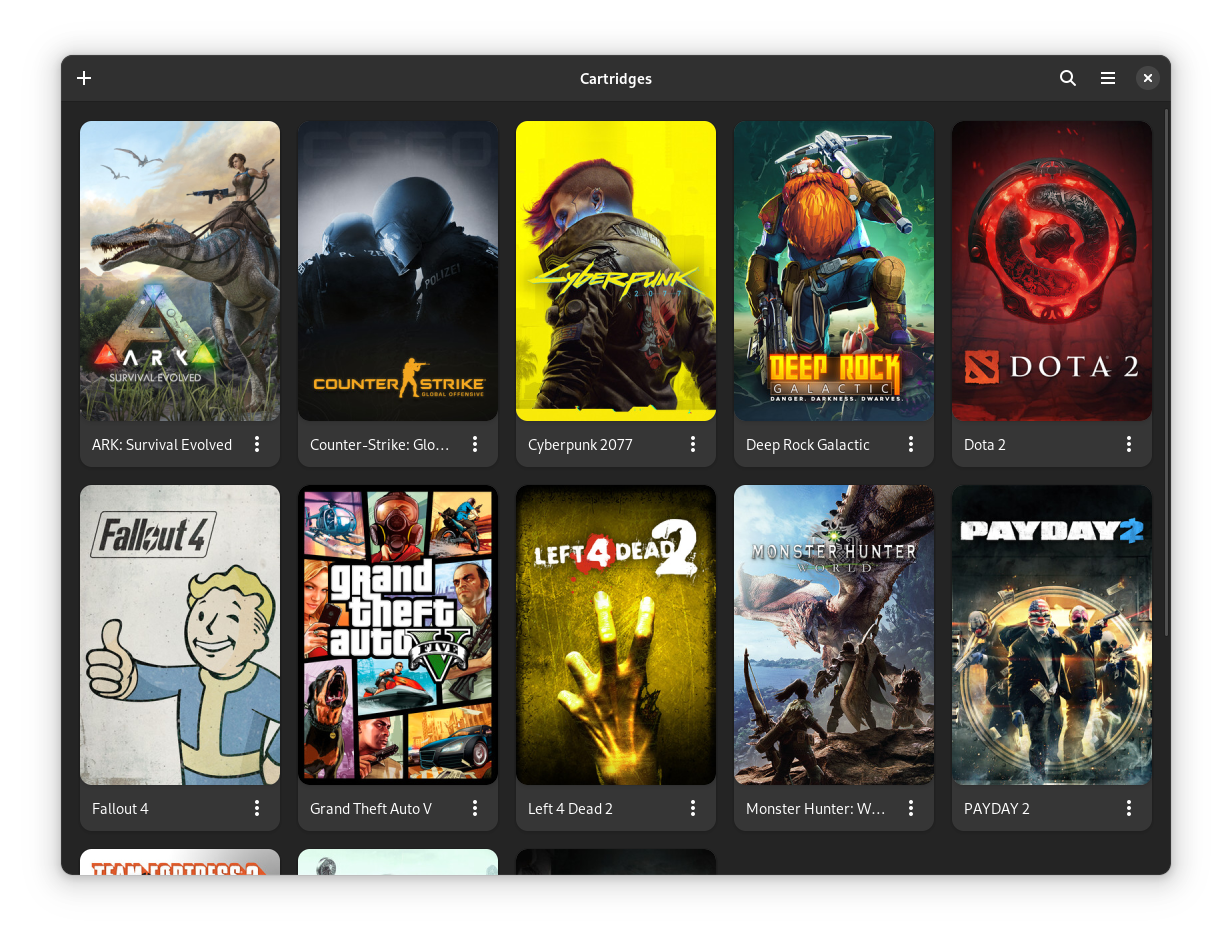
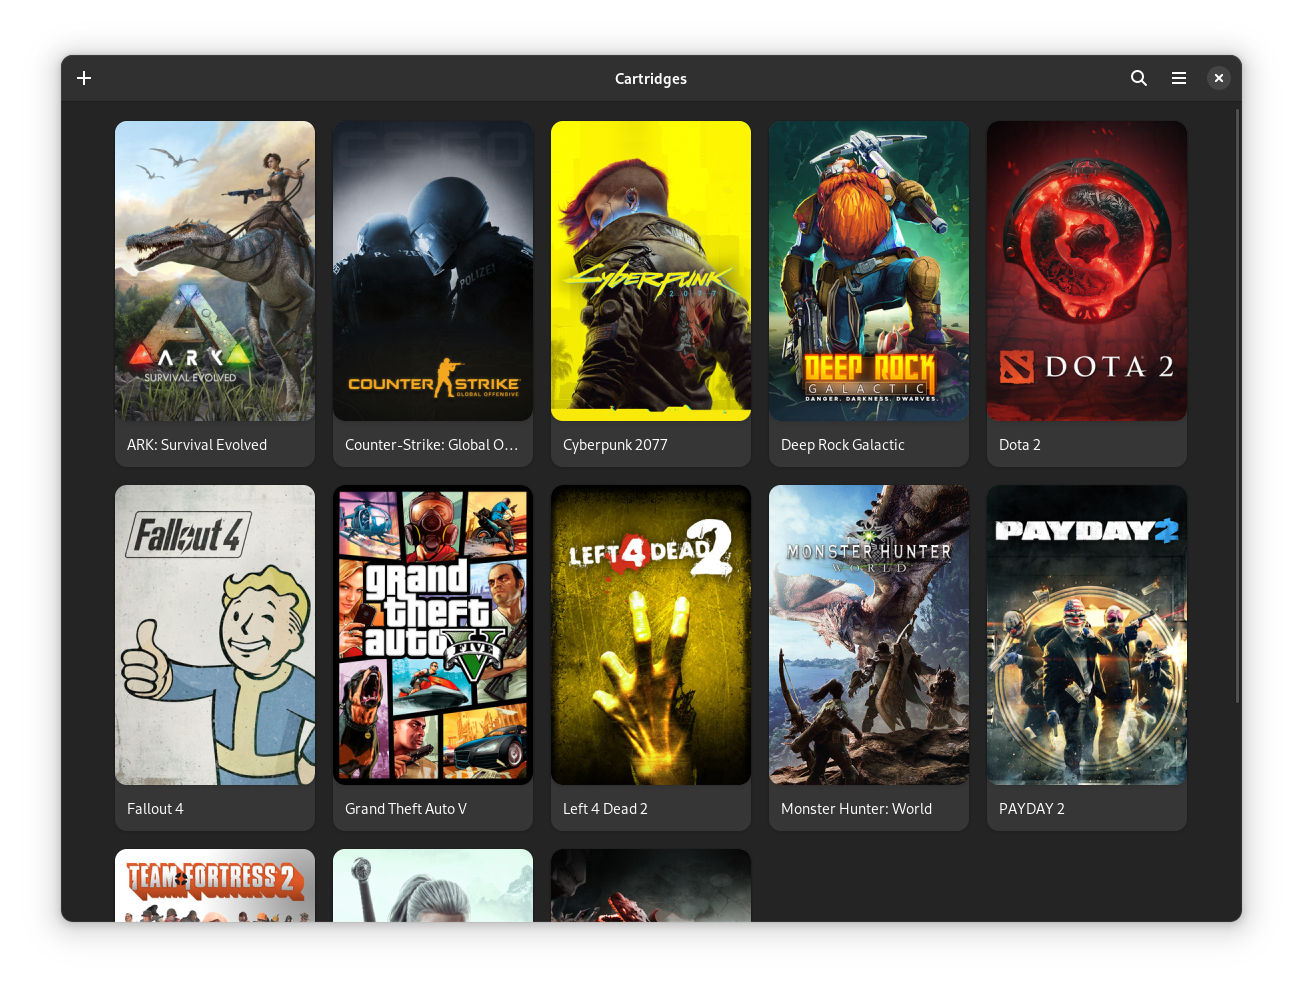
Make menu button only appear on hover

diff --git a/src/game.py b/src/game.py
@@ -32,6 +32,7 @@ class game(Gtk.Box):
     hidden_game_options = Gtk.Template.Child()
     button_revealer = Gtk.Template.Child()
     title_revealer = Gtk.Template.Child()
+    menu_revealer = Gtk.Template.Child()
 
     def __init__(self, parent_widget, title, pixbuf, game_id, **kwargs):
         super().__init__(**kwargs)
@@ -46,14 +47,24 @@ class game(Gtk.Box):
 
         self.event_contoller_motion = Gtk.EventControllerMotion.new()
         self.overlay.add_controller(self.event_contoller_motion)
+        self.overlay.set_measure_overlay(self.button_revealer, True)
+        self.overlay.set_measure_overlay(self.menu_revealer, True)
 
         self.button_play.connect("clicked", self.launch_game)
-        self.event_contoller_motion.connect("enter", self.toggle_show_play)
-        self.event_contoller_motion.connect("leave", self.toggle_show_play)
+        self.event_contoller_motion.connect("enter", self.show_play)
+        self.event_contoller_motion.connect("leave", self.hide_play)
+        self.menu_button.get_popover().connect("notify::visible", self.hide_play)
 
-    def toggle_show_play(self, widget, *args):
-        self.button_revealer.set_reveal_child(not self.button_revealer.get_reveal_child())
-        self.title_revealer.set_reveal_child(not self.title_revealer.get_reveal_child())
+    def show_play(self, widget, *args):
+        self.button_revealer.set_reveal_child(True)
+        self.title_revealer.set_reveal_child(False)
+        self.menu_revealer.set_reveal_child(True)
+
+    def hide_play(self, widget, *args):
+        if not self.menu_button.get_active():
+            self.button_revealer.set_reveal_child(False)
+            self.title_revealer.set_reveal_child(True)
+            self.menu_revealer.set_reveal_child(False)
 
     def launch_game(self, widget):
         self.parent_widget.set_active_game(None, None, self.game_id)
